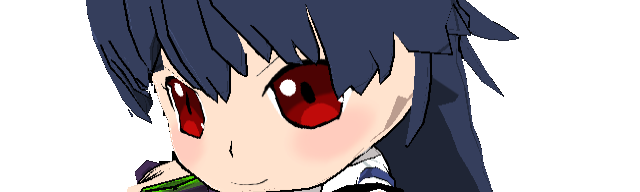
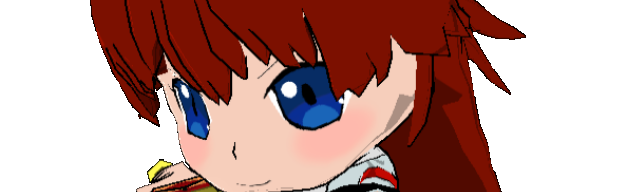
キャラ、カラーの選択を自由に出来るように

diff --git a/PlayerBase.h b/PlayerBase.h
@@ -580,7 +580,7 @@ public:
 	virtual void Init(YR_Vector3 InitPos);
 	virtual void CharaInit() = 0;
 
-	virtual void LoadData(int color_number) = 0;
+	virtual void LoadData(PLCOLOR color_number) = 0;
 	virtual void Uninit() = 0;
 	virtual void Update(float decision,float elapsed_time);
 	virtual void Draw(

diff --git a/Knight.h b/Knight.h
@@ -40,7 +40,7 @@ public:
 	~Knight();
 	void CharaInit();
 	void Uninit();
-	void LoadData(int color_number);
+	void LoadData(PLCOLOR color_number);
 	void Update(float decision, float elapsed_time);
 	void Draw(
 		YRShader				*parallel_shader,
